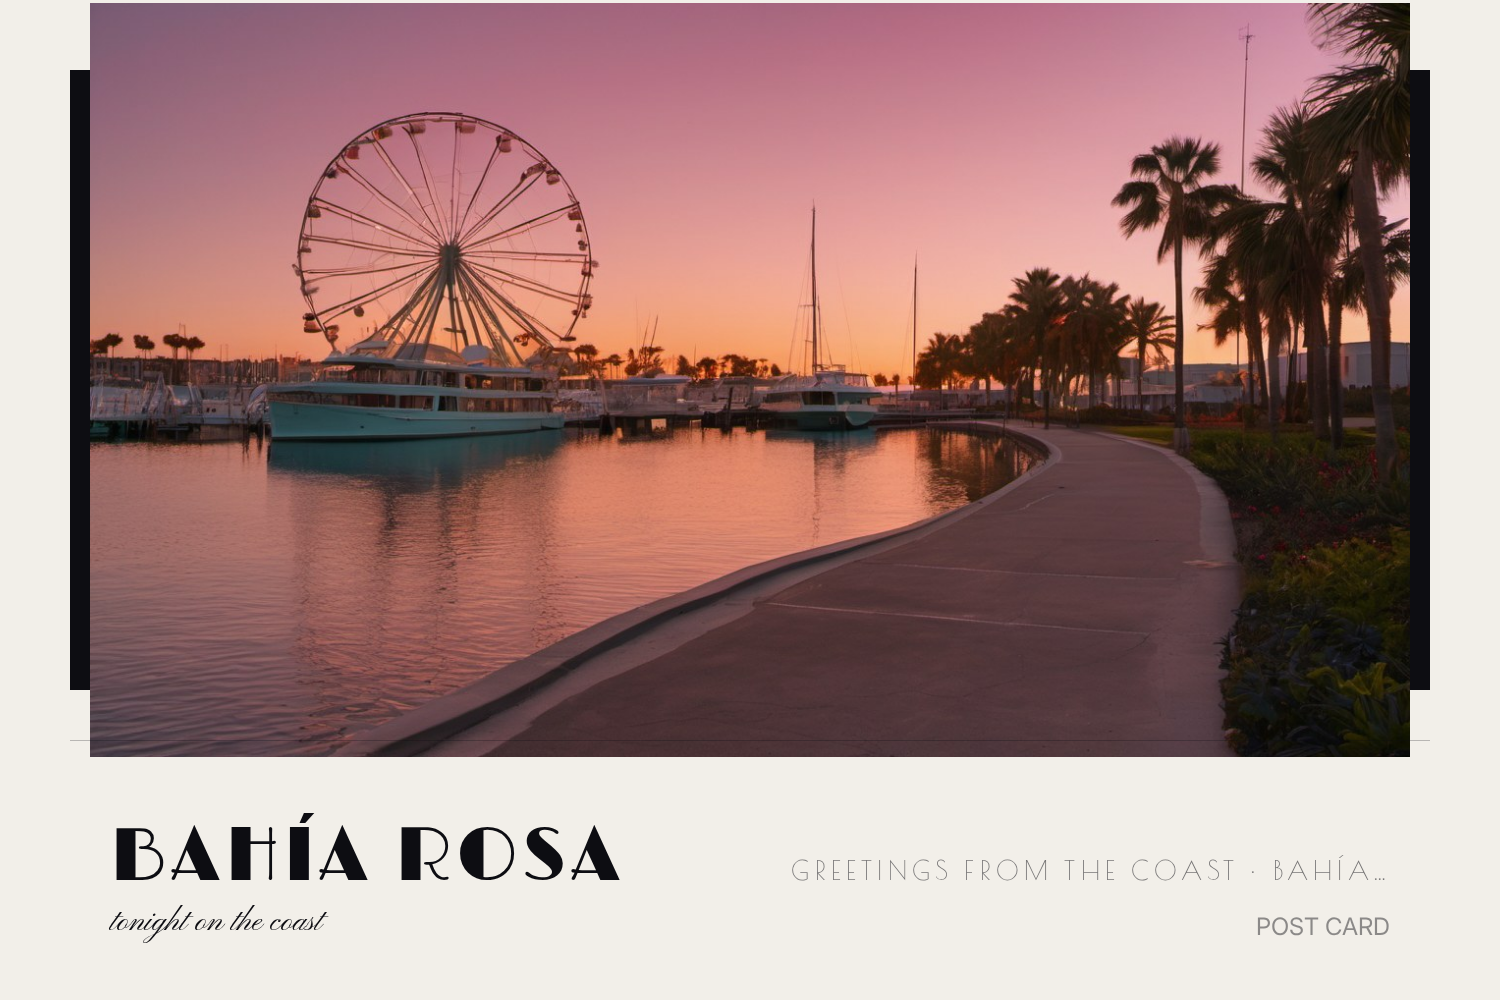
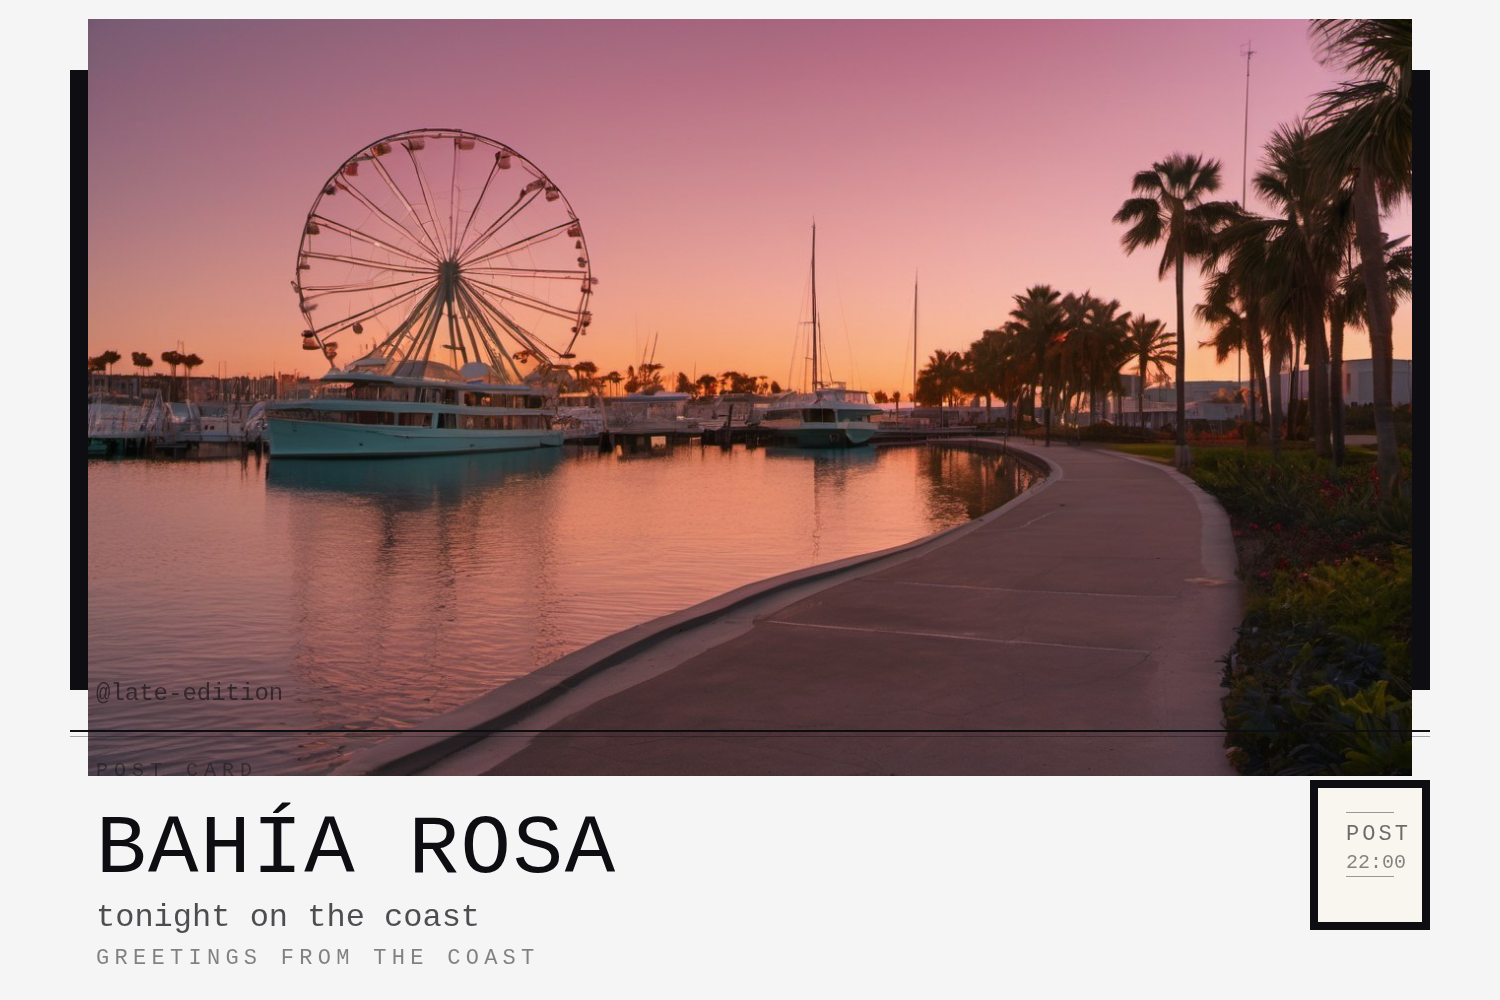
feat(placements): the four surfaces get a real frame, and the project becomes NIGHT DESK
The name: NIGHT DESK — the phrase the design contract is already built around ("the city's
night desk, set in type"), a product rather than a season, and the paper the placements
publish into. Changed everywhere a visitor sees it: wordmark, hero, tab title, footer,
download filename, README, design contract, package name. The deployed URL stays
/late-edition/ on purpose — it is the submission link, and moving it would break a link
that is already out in the world.

The four framing outputs, after Save in the editor:

- Typesetting moved to the one monospaced voice, all four roles. Not tidiness: `ctx.font`
  naming a family the document has not loaded draws a SYSTEM FALLBACK without throwing, so
  a slow-loading decorative face silently changed how the printed product looked while
  every test still passed. The new stack is resident by definition, and readyFonts() now
  has nothing to load — the race is removed rather than raced faster.
- The cover crop is biased upward (0.4, not centred). Fitting a portrait into a wide
  surface used to slice it at the chin; the interesting half of a person is the top half.
  Every surface benefits, the feed's round avatar included.
- The billboard is one printed panel: the artwork inset inside its hoarding, everything else
  on one baseline grid underneath — masthead, title, line, handle — with the amber rule
  dividing panel from caption. The three layers that used to thread through the artwork's
  bottom edge are gone.
[…]

diff --git a/src/world/placements.ts b/src/world/placements.ts
@@ -7,20 +7,32 @@
  * consumers, no second copy to drift.
  *
  * Numbers are in export pixels. The preview divides by `width` to get its scale factor.
+ *
+ * Typesetting: the four surfaces are printed by the same desk as the rest of the site, so they use the
+ * same one voice — a monospaced stack, with weight, tracking and size doing the hierarchy. Two things
+ * follow, and both are improvements rather than consistency for its own sake:
+ *
+ *   1. **No font to load.** The decorative faces this spec used to name are retired, which removes a
+ *      silent-failure path: `ctx.font` naming a face the document has not loaded draws in a system
+ *      fallback *without erroring*, so an export could look like a different product and still pass
+ *      every test. A system monospace stack cannot miss.
+ *   2. **No invented numbers.** The feed used to print "2,481 likes · 96 comments" — engagement for a
+ *      post that does not exist. It says what is true instead: where it was posted, and that it is one
+ *      photograph.
  */
 
 export const PALETTE = {
-  canvas: "#07070a",
+  canvas: "#0a0a0a",
   ink: "#0d0d12",
   ink2: "#14141a",
   ink3: "#1b1b23",
-  paper: "#f2efe9",
-  body: "#cecece",
-  muted: "#989898",
-  faint: "#6f6f6f",
-  gold: "#fcaf17",
+  paper: "#f5f5f5",
+  body: "#c9c9c9",
+  muted: "#8f8f8f",
+  faint: "#6a6a72",
+  amber: "#fbbf24",
   danger: "#ef6f6f",
-  rule: "rgba(242,239,233,0.14)",
+  rule: "rgba(245,245,245,0.14)",
 } as const;
 
 export const BACKDROPS = {
@@ -94,26 +106,35 @@ export interface PlacementCopy {
   line: string;
 }
 
-const MONO = PALETTE;
+const INK = PALETTE;
 
-/** 8:3 roadside panel on a dusk skyline. */
+/**
+ * Roadside billboard, 8:3.
+ *
+ * The artwork is the whole upper panel — inset a hand's width inside its own frame, the way a pasted
+ * poster sits inside a hoarding — and every word lives in one band underneath, on one baseline grid:
+ * masthead, title, handle, meta. The old version threaded three text layers through the artwork's
+ * bottom edge, which is what made it read as a template rather than a printed panel.
+ */
 const billboard: Placement = {
   id: "billboard",
   label: "Roadside billboard",
   blurb: "Eight metres of you, over the boulevard at dusk.",
   width: 1600,
   height: 600,
-  ground: { kind: "image", src: city("boulevard"), scrim: ["rgba(7,7,10,0.35)", "rgba(7,7,10,0.9)"], angle: 189 },
-  bezel: { x: 0, y: 0, w: 1600, h: 470, color: MONO.ink },
-  artwork: { x: 90, y: 40, w: 1420, h: 390, fit: "cover" },
+  ground: { kind: "image", src: city("boulevard"), scrim: ["rgba(10,10,10,0.35)", "rgba(10,10,10,0.9)"], angle: 189 },
+  bezel: { x: 0, y: 0, w: 1600, h: 492, color: INK.ink },
+  artwork: { x: 30, y: 28, w: 1540, h: 436, fit: "cover" },
   rules: [
-    { x: 90, y: 500, w: 1420, h: 2, color: MONO.gold },
-    { x: 0, y: 470, w: 1600, h: 130, color: MONO.ink },
+    // The hoarding's own edge, then the amber rule that divides panel from caption.
+    { x: 0, y: 492, w: 1600, h: 3, color: INK.amber },
+    { x: 0, y: 495, w: 1600, h: 1, color: "rgba(0,0,0,0.5)" },
   ],
   layers: [
-    { text: "{city} OUTDOOR · NIGHT ROTATION", x: 90, y: 548, size: 26, family: "kicker", color: MONO.faint, tracking: 0.28, upper: true, maxWidth: 900 },
-    { text: "{title}", x: 90, y: 462, size: 30, family: "text", color: MONO.body, weight: 500, maxWidth: 1000 },
-    { text: "{handle}", x: 1510, y: 548, size: 26, family: "text", color: MONO.gold, align: "right", maxWidth: 560 },
+    { text: "LA GAVIOTA", x: 44, y: 552, size: 24, family: "kicker", color: INK.faint, tracking: 0.34, upper: true, maxWidth: 420 },
+    { text: "{title}", x: 44, y: 588, size: 40, family: "display", color: INK.paper, weight: 500, maxWidth: 1060 },
+    { text: "{line}", x: 1560, y: 552, size: 24, family: "text", color: INK.muted, align: "right", maxWidth: 900 },
+    { text: "{handle}", x: 1560, y: 588, size: 34, family: "text", color: INK.amber, weight: 600, align: "right", maxWidth: 620 },
   ],
   caption: "Your artwork on the roadside billboard over the boulevard at dusk.",
 };
@@ -125,18 +146,18 @@ const venue: Placement = {
   blurb: "The foyer screen, running your poster as tonight's bill.",
   width: 900,
   height: 1200,
-  ground: { kind: "image", src: city("downtown"), scrim: ["rgba(10,8,14,0.45)", "rgba(7,7,10,0.92)"], angle: 189 },
-  bezel: { x: 40, y: 40, w: 820, h: 1020, color: MONO.ink },
-  artwork: { x: 90, y: 90, w: 720, h: 900, fit: "cover" },
+  ground: { kind: "image", src: city("downtown"), scrim: ["rgba(12,10,16,0.45)", "rgba(10,10,10,0.92)"], angle: 189 },
+  bezel: { x: 36, y: 36, w: 828, h: 972, color: INK.ink },
+  artwork: { x: 60, y: 60, w: 780, h: 924, fit: "cover" },
   rules: [
-    { x: 90, y: 1010, w: 720, h: 2, color: MONO.gold },
-    { x: 90, y: 1090, w: 720, h: 1, color: MONO.rule },
+    { x: 36, y: 1032, w: 828, h: 1, color: INK.rule },
+    { x: 36, y: 1168, w: 828, h: 1, color: INK.rule },
   ],
   layers: [
-    { text: "LA GAVIOTA ARENA", x: 90, y: 1070, size: 34, family: "display", color: MONO.paper, tracking: 0.04 },
-    { text: "{line}", x: 810, y: 1070, size: 26, family: "kicker", color: MONO.gold, align: "right", tracking: 0.2, upper: true, maxWidth: 460 },
-    { text: "doors 22:00 · floor standing", x: 90, y: 1130, size: 24, family: "text", color: MONO.muted },
-    { text: "NO RE-ENTRY · {city}", x: 810, y: 1130, size: 22, family: "text", color: MONO.faint, align: "right", maxWidth: 420 },
+    { text: "LA GAVIOTA ARENA", x: 36, y: 1096, size: 46, family: "display", color: INK.paper, weight: 500, tracking: 0.03, maxWidth: 560 },
+    { text: "{line}", x: 864, y: 1096, size: 24, family: "kicker", color: INK.amber, align: "right", tracking: 0.22, upper: true, maxWidth: 420 },
+    { text: "doors 22:00 · floor standing", x: 36, y: 1150, size: 22, family: "text", color: INK.muted, maxWidth: 460 },
+    { text: "no re-entry · {city}", x: 864, y: 1150, size: 20, family: "text", color: INK.faint, align: "right", upper: true, maxWidth: 420 },
   ],
   caption: "Your artwork on the venue's foyer display, billed as tonight's show.",
 };
@@ -148,38 +169,57 @@ const feed: Placement = {
   blurb: "Posted to the coast's feed, avatar and all.",
   width: 1080,
   height: 1350,
-  ground: { kind: "image", src: city("marina"), scrim: ["rgba(7,7,10,0.25)", "rgba(7,7,10,0.88)"], angle: 189 },
-  artwork: { x: 0, y: 210, w: 1080, h: 900, fit: "cover" },
+  ground: { kind: "image", src: city("marina"), scrim: ["rgba(10,10,10,0.25)", "rgba(10,10,10,0.9)"], angle: 189 },
+  artwork: { x: 0, y: 180, w: 1080, h: 900, fit: "cover" },
   rules: [
-    { x: 0, y: 190, w: 1080, h: 1, color: MONO.rule },
-    { x: 0, y: 1110, w: 1080, h: 1, color: MONO.rule },
-    { x: 0, y: 1240, w: 1080, h: 1, color: MONO.rule },
+    { x: 0, y: 180, w: 1080, h: 1, color: INK.rule },
+    { x: 0, y: 1080, w: 1080, h: 1, color: INK.rule },
   ],
   layers: [
-    { text: "{handle}", x: 190, y: 96, size: 40, family: "text", color: MONO.paper, weight: 600, maxWidth: 800 },
-    { text: "{city} · now", x: 190, y: 142, size: 28, family: "text", color: MONO.faint, maxWidth: 800 },
-    { text: "{line}", x: 60, y: 1190, size: 34, family: "text", color: MONO.body, maxWidth: 960 },
-    { text: "2,481 likes · 96 comments", x: 60, y: 1310, size: 28, family: "text", color: MONO.faint },
+    { text: "{handle}", x: 192, y: 104, size: 44, family: "text", color: INK.paper, weight: 600, maxWidth: 800 },
+    { text: "{city} · now", x: 192, y: 146, size: 26, family: "text", color: INK.faint, maxWidth: 800 },
+    { text: "{title}", x: 60, y: 1160, size: 40, family: "display", color: INK.paper, weight: 500, maxWidth: 960 },
+    { text: "{line}", x: 60, y: 1212, size: 26, family: "text", color: INK.muted, maxWidth: 960 },
+    // No invented engagement: what is true about this post is where it came from and that it is yours.
+    { text: "posted from {city} · one photograph · tonight", x: 60, y: 1290, size: 22, family: "kicker", color: INK.faint, tracking: 0.12, maxWidth: 960 },
   ],
   caption: "Your artwork posted to the coast's feed, with your handle and avatar.",
 };
 
-/** 3:2 printed postcard — the second download. */
+/**
+ * 3:2 printed postcard — the second download.
+ *
+ * Mounted print on card, addressed side implied: the photograph in a dark mount, a postal rule, the
+ * city set large, and a stamp in the corner. The stamp is drawn from three rects and a word, so it
+ * needs no asset.
+ */
 const postcard: Placement = {
   id: "postcard",
   label: "Postcard",
   blurb: "A printed postcard from the coast, stamped and captioned.",
   width: 1500,
   height: 1000,
-  ground: { kind: "gradient", stops: [MONO.paper, "#dcd6c8"], angle: 189 },
-  bezel: { x: 70, y: 70, w: 1360, h: 620, color: MONO.ink },
-  artwork: { x: 90, y: 90, w: 1320, h: 580, fit: "cover" },
-  rules: [{ x: 70, y: 740, w: 1360, h: 1, color: "rgba(13,13,18,0.25)" }],
+  ground: { kind: "gradient", stops: [PALETTE.paper, "#ddd8cc"], angle: 189 },
+  bezel: { x: 70, y: 70, w: 1360, h: 620, color: INK.ink },
+  artwork: { x: 88, y: 88, w: 1324, h: 584, fit: "cover" },
+  rules: [
+    // The postal rule: a thick line with a hairline under it, the way a card divides its two halves.
+    { x: 70, y: 730, w: 1360, h: 2, color: INK.ink },
+    { x: 70, y: 736, w: 1360, h: 1, color: "rgba(13,13,18,0.35)" },
+    // The stamp: a frame, a perforation line, and the city's postmark square.
+    { x: 1310, y: 780, w: 120, h: 150, color: INK.ink },
+    { x: 1318, y: 788, w: 104, h: 134, color: "#f9f6ef" },
+    { x: 1346, y: 812, w: 48, h: 1, color: "rgba(13,13,18,0.4)" },
+    { x: 1346, y: 876, w: 48, h: 1, color: "rgba(13,13,18,0.4)" },
+  ],
   layers: [
-    { text: "{city}", x: 110, y: 880, size: 76, family: "display", color: MONO.ink, tracking: 0.06, upper: true, maxWidth: 820 },
-    { text: "{title}", x: 110, y: 930, size: 32, family: "script", color: MONO.ink, maxWidth: 820 },
-    { text: "greetings from the coast · {city}", x: 1390, y: 880, size: 26, family: "kicker", color: "rgba(13,13,18,0.55)", align: "right", tracking: 0.2, upper: true, maxWidth: 620 },
-    { text: "POST CARD", x: 1390, y: 935, size: 24, family: "text", color: "rgba(13,13,18,0.45)", align: "right" },
+    { text: "{city}", x: 96, y: 872, size: 84, family: "display", color: INK.ink, weight: 500, tracking: 0.02, upper: true, maxWidth: 1080 },
+    { text: "{title}", x: 96, y: 926, size: 32, family: "text", color: "rgba(13,13,18,0.72)", maxWidth: 1080 },
+    { text: "greetings from the coast", x: 96, y: 964, size: 22, family: "kicker", color: "rgba(13,13,18,0.5)", tracking: 0.24, upper: true, maxWidth: 700 },
+    { text: "{handle}", x: 96, y: 700, size: 24, family: "text", color: "rgba(13,13,18,0.6)", maxWidth: 700 },
+    { text: "POST CARD", x: 96, y: 776, size: 20, family: "kicker", color: "rgba(13,13,18,0.45)", tracking: 0.3, upper: true, maxWidth: 300 },
+    { text: "POST", x: 1346, y: 840, size: 22, family: "kicker", color: "rgba(13,13,18,0.6)", tracking: 0.14, upper: true, maxWidth: 100 },
+    { text: "22:00", x: 1346, y: 868, size: 20, family: "text", color: "rgba(13,13,18,0.5)", maxWidth: 100 },
   ],
   caption: "Your artwork printed as a postcard from the coast.",
 };
@@ -189,7 +229,7 @@ export const PLACEMENTS: readonly Placement[] = [billboard, venue, feed, postcar
 export const findPlacement = (id: string): Placement | undefined => PLACEMENTS.find((p) => p.id === id);
 
 /** The avatar the feed draws beside the handle — a small crop of the plate, so it needs no asset. */
-export const FEED_AVATAR = { x: 60, y: 66, size: 100 };
+export const FEED_AVATAR = { x: 56, y: 60, size: 104 };
 
 /** Fill the copy placeholders. One place, so no consumer invents its own wording. */
 export function fillCopy(text: string, copy: PlacementCopy): string {
@@ -200,10 +240,18 @@ export function fillCopy(text: string, copy: PlacementCopy): string {
     .replaceAll("{line}", copy.line);
 }
 
-/** Font stacks, shared by the canvas exporter and the DOM preview. */
+/**
+ * One stack, four roles.
+ *
+ * The names are kept (`display`, `text`, `kicker`, `script`) so the specs and the tests read the same,
+ * but they all resolve to the mono stack now: hierarchy comes from the size, the weight and the
+ * tracking recorded on each layer. Nothing has to be loaded, so nothing can silently fall back.
+ */
+const MONO_STACK = 'ui-monospace, "JetBrains Mono", "SF Mono", "Cascadia Mono", Menlo, Consolas, monospace';
+
 export const FONT_STACKS: Record<Family, string> = {
-  display: '"Limelight", Georgia, serif',
-  text: '"Inter", system-ui, -apple-system, sans-serif',
-  kicker: '"Poiret One", system-ui, sans-serif',
-  script: '"Pinyon Script", cursive',
+  display: MONO_STACK,
+  text: MONO_STACK,
+  kicker: MONO_STACK,
+  script: MONO_STACK,
 };

diff --git a/src/world/compose.ts b/src/world/compose.ts
@@ -9,23 +9,24 @@
 import {
   FEED_AVATAR,
   FONT_STACKS,
+  PALETTE,
   fillCopy,
   type Placement,
   type PlacementCopy,
   type TextLayer,
 } from "./placements";
 
-/** Fonts must be resident before canvas text, or the export falls back to a system face. */
+/**
+ * Fonts must be resident before canvas text, or the export falls back to a system face.
+ *
+ * The placements all draw in the monospaced stack now — a *system* stack, which is resident by
+ * definition. That removes the tab the old version had for a decorative family that might not have
+ * loaded yet: `ctx.font` naming an unloaded face draws a fallback **without throwing**, so a slow load
+ * would quietly change how the printed product looked. Nothing to load, nothing to race.
+ */
 export async function readyFonts(): Promise<void> {
   if (typeof document === "undefined" || !document.fonts) return;
-  await Promise.all([
-    document.fonts.load('400 32px "Limelight"'),
-    document.fonts.load('400 32px "Poiret One"'),
-    document.fonts.load('400 32px "Pinyon Script"'),
-    document.fonts.load('400 32px "Inter"'),
-    document.fonts.load('600 32px "Inter"'),
-    document.fonts.ready,
-  ]);
+  await document.fonts.ready;
 }
 
 export function loadImage(src: string): Promise<HTMLImageElement> {
@@ -38,7 +39,16 @@ export function loadImage(src: string): Promise<HTMLImageElement> {
   });
 }
 
-/** Cover crop: fill the rect, keep the aspect, centre the overflow. */
+/**
+ * Cover crop: fill the rect, keep the aspect, and bias the overflow upward.
+ *
+ * Centring the crop is what cuts a portrait photograph off at the chin when it is fitted into a wide
+ * surface: the interesting part of a person is in the upper half of their frame. `BIAS_Y` keeps a
+ * little more of the top than the bottom, on every surface, so all four outputs frame the subject
+ * rather than the middle of the file.
+ */
+const BIAS_Y = 0.4;
+
 function drawCover(
   ctx: CanvasRenderingContext2D,
   image: HTMLImageElement,
@@ -47,7 +57,7 @@ function drawCover(
   const scale = Math.max(rect.w / image.width, rect.h / image.height);
   const w = image.width * scale;
   const h = image.height * scale;
-  ctx.drawImage(image, rect.x + (rect.w - w) / 2, rect.y + (rect.h - h) / 2, w, h);
+  ctx.drawImage(image, rect.x + (rect.w - w) / 2, rect.y + (rect.h - h) * BIAS_Y, w, h);
 }
 
 function drawContain(
@@ -168,7 +178,7 @@ export function drawPlacement(
     ctx.clip();
     drawCover(ctx, artwork, { x: FEED_AVATAR.x, y: FEED_AVATAR.y, w: FEED_AVATAR.size, h: FEED_AVATAR.size });
     ctx.restore();
-    ctx.strokeStyle = "#fcaf17";
+    ctx.strokeStyle = PALETTE.amber;
     ctx.lineWidth = 3;
     ctx.beginPath();
     ctx.arc(FEED_AVATAR.x + FEED_AVATAR.size / 2, FEED_AVATAR.y + FEED_AVATAR.size / 2, FEED_AVATAR.size / 2, 0, Math.PI * 2);

diff --git a/src/App.tsx b/src/App.tsx
@@ -76,7 +76,7 @@ export function App() {
   }, []);
   const image = plate ? (plate.kind === "photo" ? plate.objectUrl : plate.src) : null;
   /** The download's own filename: from the photo's name where there is one, without any text burned in. */
-  const frameName = `late-edition-${
+  const frameName = `night-desk-${
     plate && "name" in plate && plate.name ? String(plate.name).replace(/\.[^.]+$/, "") : "frame"
   }.png`;
   const plan = PLANS[choice.surface] ?? PLANS.debut;
@@ -202,7 +202,7 @@ export function App() {
         <div className="mx-auto max-w-[1280px] px-8">
           <div className="flex flex-wrap items-baseline justify-between gap-x-6 gap-y-2 py-4">
             <div className="flex items-baseline gap-4">
-              <span className="wordmark text-3xl leading-none">Late Edition</span>
+              <span className="wordmark text-3xl leading-none">Night Desk</span>
               <span className="kicker hidden sm:inline">Bahía Rosa · La Gaviota</span>
             </div>
             <div className="flex items-center gap-6">
@@ -241,7 +241,7 @@ export function App() {
           <Hero3D scene={scene} look={look} className="absolute inset-0 h-full w-full" />
           <div className="city-scrim" aria-hidden="true" />
           <div className="relative px-10 py-20">
-            <h1 className="display mt-5 text-5xl">Late Edition</h1>
+            <h1 className="display mt-5 text-5xl">Night Desk</h1>
             <p className="deck mt-7">
               Bring one photo. It becomes a painted frame in the city&rsquo;s own light — flat colour,
               ink over the lines, violet in the shadows and gold where the sun lands — then the editor
@@ -567,7 +567,7 @@ export function App() {
       </main>
 
       <footer className="rule mx-auto mt-16 max-w-[1280px] border-t px-8 py-8">
-        <p className="kicker">Late Edition · Bahía Rosa</p>
+        <p className="kicker">Night Desk · Bahía Rosa</p>
         <p className="mt-3 max-w-[70ch] text-xs leading-relaxed text-[color:var(--color-faint)]">
           Unofficial fan-made project for the Unlayer Build with React Image Editor Challenge. Not
           affiliated with, endorsed by, or connected to Rockstar Games or Take-Two Interactive. All

diff --git a/tests/unit/placements.test.ts b/tests/unit/placements.test.ts
@@ -1,5 +1,5 @@
 import { describe, expect, test } from "vitest";
-import { PLACEMENTS, fillCopy, findPlacement, FONT_STACKS } from "../../src/world/placements";
+import { PLACEMENTS, PALETTE, fillCopy, findPlacement, FONT_STACKS } from "../../src/world/placements";
 
 /**
  * The placements are data, so they can be checked like data — before anything is drawn. Every failure
@@ -73,15 +73,22 @@ describe("placements", () => {
     expect(filled).not.toContain("{");
   });
 
-  test("every family the layers use has a stack, and the display face is not the body face", () => {
+  test("every family resolves to the one monospaced voice", () => {
+    // The rule used to be "the display face is not the body face". It is now the opposite, on purpose:
+    // the four roles all resolve to a system monospaced stack, so hierarchy comes from size, weight and
+    // tracking, and no export can silently draw in a fallback face that has not loaded yet.
     for (const placement of PLACEMENTS) {
       for (const layer of placement.layers) expect(FONT_STACKS[layer.family]).toBeTruthy();
     }
-    expect(FONT_STACKS.display).not.toBe(FONT_STACKS.text);
+    const stacks = new Set(Object.values(FONT_STACKS));
+    expect(stacks.size, "the placements should speak with one voice").toBe(1);
+    expect([...stacks][0]).toMatch(/mono/i);
   });
 
   test("three night surfaces sit on a city plate behind a scrim; the postcard stays paper", () => {
-    const light = PLACEMENTS.filter((placement) => (placement.ground.stops?.[0] ?? "").toLowerCase() === "#f2efe9");
+    // Read against the palette rather than a literal: pinning the hex here meant the test kept passing
+    // its own copy of a colour the design had already retired.
+    const light = PLACEMENTS.filter((placement) => placement.ground.stops?.[0] === PALETTE.paper);
     expect(light.map((placement) => placement.id)).toEqual(["postcard"]);
 
     const imaged = PLACEMENTS.filter((placement) => placement.ground.kind === "image");

diff --git a/tests/e2e/shell.spec.ts b/tests/e2e/shell.spec.ts
@@ -21,7 +21,7 @@ test("the shell renders the city's design language and stays clean", async ({ pa
 
   // One voice. The decorative faces were retired with the template language they belonged to: the
   // wordmark is the same monospaced family as the running text, and hierarchy is size and space.
-  await expect(page.locator(".wordmark").first()).toHaveText(/late edition/i);
+  await expect(page.locator(".wordmark").first()).toHaveText(/night desk/i);
   await expect(page.locator("h1.display")).toBeVisible();
   const type = await page.evaluate(() => {
     const style = getComputedStyle(document.body);

diff --git a/index.html b/index.html
@@ -3,7 +3,7 @@
   <head>
     <meta charset="UTF-8" />
     <meta name="viewport" content="width=device-width, initial-scale=1.0" />
-    <title>LATE EDITION — the city prints you, then you take the city</title>
+    <title>NIGHT DESK — the city prints you, then you take the city</title>
     <meta
       name="description"
       content="A GTA VI-inspired character debut. One photo becomes a character portrait printed on this machine, then the city's media machine wants that face on its loading screen, front page and poster — with React Image Editor as the only workstation you produce with."

diff --git a/DESIGN.md b/DESIGN.md
@@ -1,4 +1,4 @@
-# DESIGN.md — LATE EDITION
+# DESIGN.md — NIGHT DESK
 
 The design-system contract for this project. Every component cites a token from here; a value that
 appears in code but not here is drift, and one of them gets fixed.

diff --git a/README.md b/README.md
@@ -1,4 +1,4 @@
-# LATE EDITION
+# NIGHT DESK
 
 **The city prints you. Then your poster takes the city.**
 
